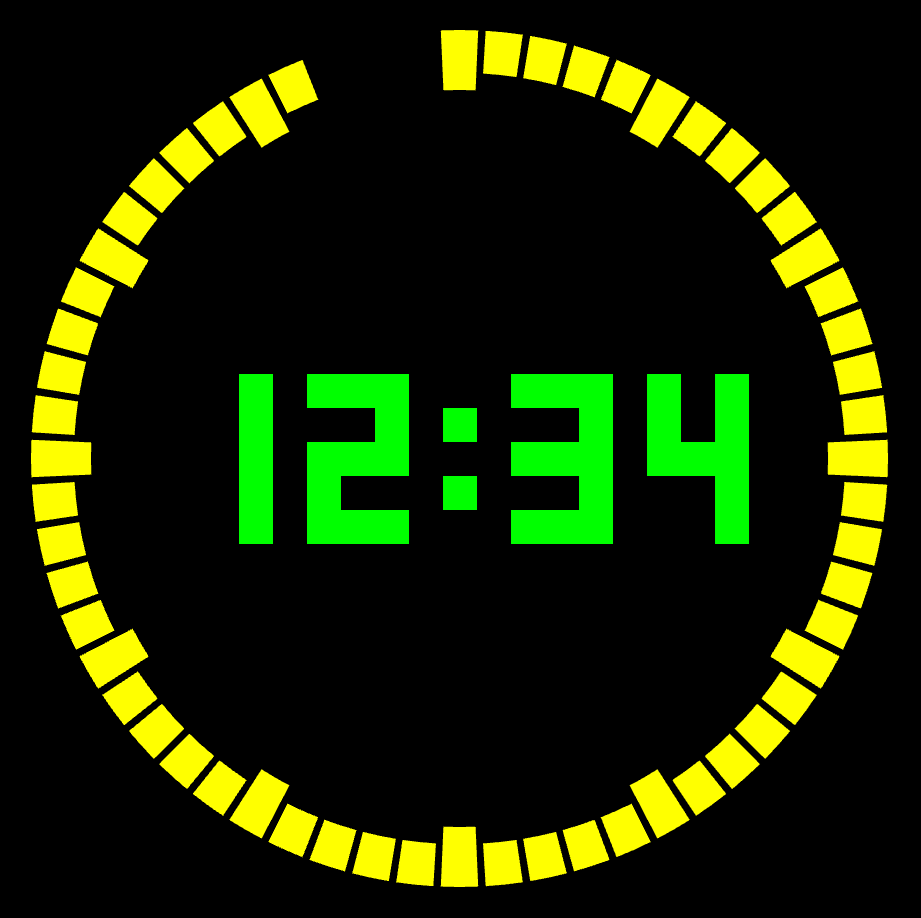
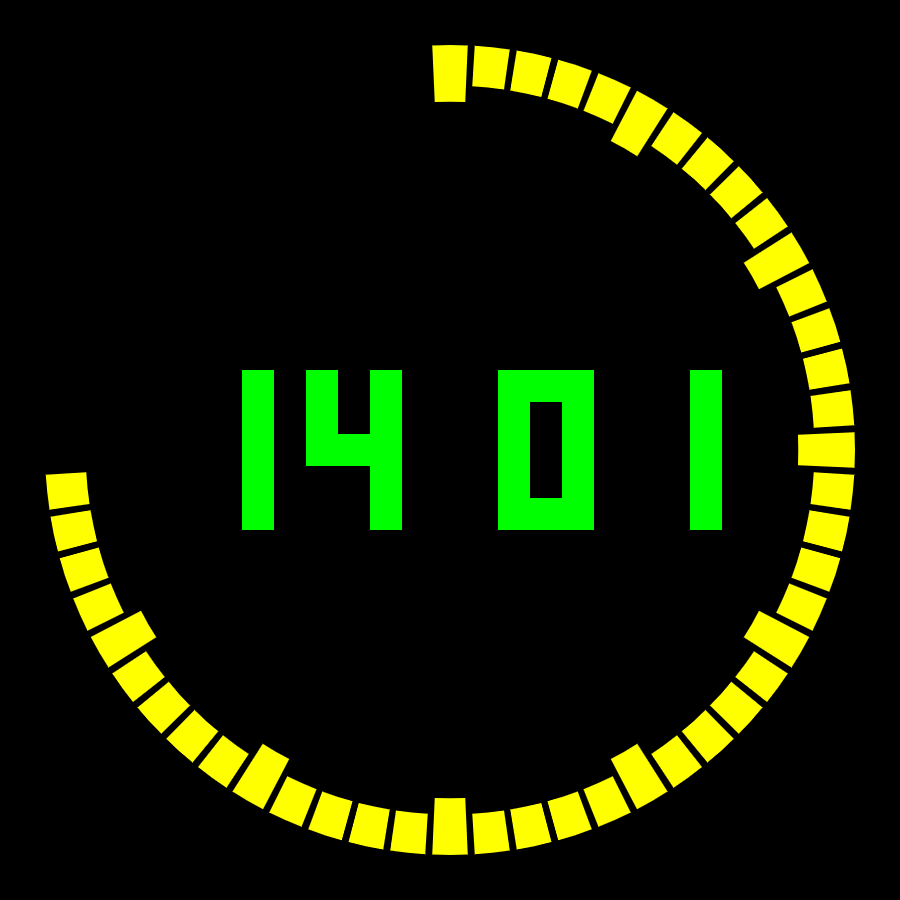
docs: correct CSS customization claims and refresh screenshots
README claimed clock colors and size were configurable via CSS, but
both were hardcoded in JS. Update the wording now that colors go
through CSS variables, document the new shared/ folder in the repo
structure, and drop the now-implemented theme-toggle item from the
roadmap.

Changed region(s): [[0.0311, 0.0311, 0.9644, 0.9644], [0.2489, 0.4044, 0.84, 0.5911]]

diff --git a/README.md b/README.md
@@ -13,7 +13,8 @@
 ## 🌟 Особенности
 - 🧠 Чистый JavaScript
 - 💾 Без зависимостей и сборщиков
-- 🎨 Легко менять цвета и размер элементов через CSS
+- 🎨 Цвет циферблата настраивается через CSS-переменные — кнопка «тема» в углу экрана переключает готовые палитры (зелёная/янтарная/синяя)
+- 📐 Размер часов автоматически подстраивается под размер окна браузера
 - 🪩 Эстетика старых электронных табло
 
 ## 🚀 Как запустить
@@ -34,6 +35,11 @@
 ```bash
     pixel-clock/
     │
+    ├── shared/             # Общий код для обеих версий
+    │   ├── digits.js       # Растровые шаблоны цифр 0-9
+    │   ├── theme.js        # Переключатель цветовых тем
+    │   └── theme.css       # CSS-переменные тем и стили кнопки
+    │
     ├── v1/                 # Первая версия — прямоугольные цифровые часы
     │   ├── index.html
     │   ├── style.css
@@ -46,6 +52,7 @@
     │   ├── main.js
     │   └── screenshot.png
     │
+    ├── LICENSE
     └── README.md
 ```
 
@@ -62,7 +69,6 @@
 - 🔉 Звуки "тикания"
 - 📅 Отображение даты
 - 💫 Анимация появления цифр
-- 🌓 Возможность переключения темы
 
 ## 📜 Лицензия
 Этот проект распространяется по лицензии [MIT](https://opensource.org/licenses/MIT).<br><br>
